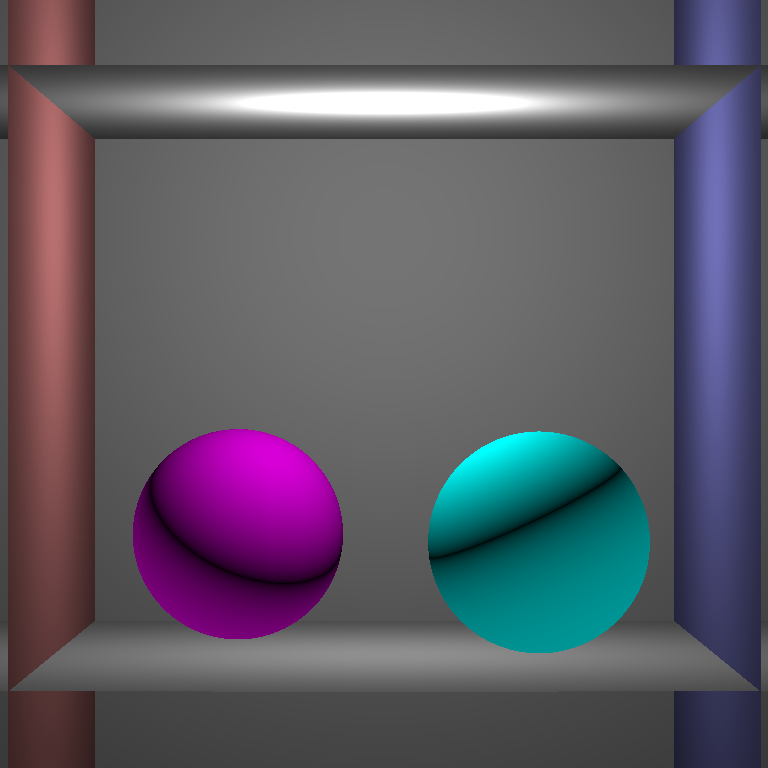
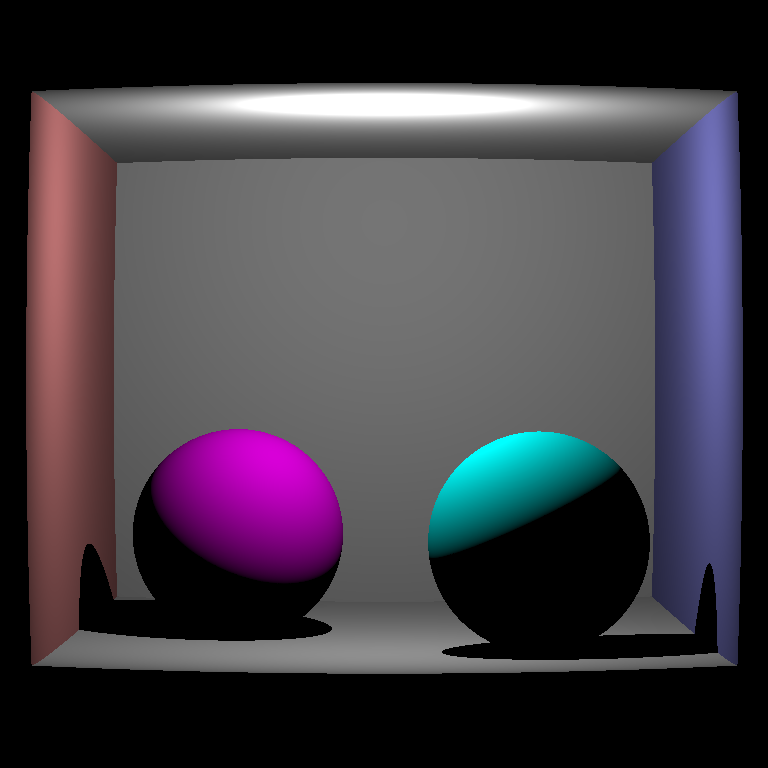
Add occlusion

diff --git a/src/main.rs b/src/main.rs
@@ -222,16 +222,31 @@ impl Scene {
 }
 
 
-pub fn computeDirectLighting(sphere : &Sphere, light: &Light, p:Vec3) -> Vec3
+pub fn computeDirectLighting(scene : &Scene, sphere : &Sphere, light: &Light, p:Vec3) -> Vec3
 {
     let lightP = light.position;
     let sphereToLight = lightP.sub(&p);
     let d2 = sphereToLight.length2();
-    let sphereToLightNorm = sphereToLight.mulf(1.0 / d2.sqrt());
+    let d = d2.sqrt();
+    let sphereToLightNorm = sphereToLight.mulf(1.0 / d);
     let normalSurfaceNorm = p.sub(&sphere.center).normalize();
     let absDot = normalSurfaceNorm.dot(&sphereToLightNorm).abs();
+    let r = Ray{origin:p.add(&sphereToLightNorm.mulf(0.01)), direction:sphereToLightNorm};
+    let it = intersect_scene(scene, &r);
 
-    sphere.color.mulf(absDot / (3.14159 * d2)).mul(&light.emission)
+    let occludded = match it {
+	None => false,
+	Some(Intersect{t, sphere}) => t < d
+    };
+
+    if occludded
+    {
+	Vec3::new(0.0, 0.0, 0.0)
+    }
+    else
+    {
+        sphere.color.mulf(absDot / (3.14159 * d2)).mul(&light.emission)
+    }
 }
 
 pub fn radiance(scene: &Scene, ray: &Ray) -> Vec3
@@ -244,7 +259,7 @@ pub fn radiance(scene: &Scene, ray: &Ray) -> Vec3
         Some(Intersect{t, sphere}) => {
 	    let p = ray.getP(t);
 	    // There is only one light, that's easier
-		computeDirectLighting(&sphere, &scene.lights[0], p)
+		computeDirectLighting(&scene, &sphere, &scene.lights[0], p)
 	}
     }
 }
@@ -310,17 +325,17 @@ pub fn main()
 {
     let scene = Scene::new(
 	(vec! [
-	    Sphere {radius: 1e5  ,center:(Vec3::new((1e5+1.0), 40.8, 81.6))  ,emission:Vec3::new(0.0, 0.0, 0.0),  color:(Vec3::new(0.75, 0.25, 0.25)), material: Material::Diffuse } // Left
-	    ,Sphere {radius: 1e5  ,center:(Vec3::new((-1e5+99.0), 40.8, 81.6)) ,emission:Vec3::new(0.0, 0.0, 0.0), color: (Vec3::new(0.25, 0.25, 0.75)),material:  Material::Diffuse } // Right
-	    ,Sphere {radius: 1e5  ,center:(Vec3::new(50.0, 40.8, 1e5))      ,emission:Vec3::new(0.0, 0.0, 0.0), color: (Vec3::new(0.75, 0.75, 0.75)),material:  Material::Diffuse } // Back
-	    ,Sphere {radius: 1e5  ,center:(Vec3::new(50.0, 40.8, (-1e5+170.0)))  ,emission:Vec3::new(0.0, 0.0, 0.0), color:Vec3::new(0.0, 0.0, 0.0),      material:        Material::Diffuse } // Front
-	    ,Sphere {radius: 1e5  ,center:(Vec3::new(50.0, 1e5, 81.6))     ,emission:Vec3::new(0.0, 0.0, 0.0), color: (Vec3::new(0.75, 0.75, 0.75)), material: Material::Diffuse } // Bottom
-	    ,Sphere {radius: 1e5  ,center:(Vec3::new(50.0, (-1e5+81.6), 81.6)) ,emission:Vec3::new(0.0, 0.0, 0.0), color: (Vec3::new(0.75, 0.75, 0.75)),material:  Material::Diffuse } // Top
+	    Sphere {radius: 1000.0  ,center:(Vec3::new((1000.0+1.0), 40.8, 81.6))  ,emission:Vec3::new(0.0, 0.0, 0.0),  color:(Vec3::new(0.75, 0.25, 0.25)), material: Material::Diffuse } // Left
+	    ,Sphere {radius: 1000.0  ,center:(Vec3::new((-1000.0+99.0), 40.8, 81.6)) ,emission:Vec3::new(0.0, 0.0, 0.0), color: (Vec3::new(0.25, 0.25, 0.75)),material:  Material::Diffuse } // Right
+	    ,Sphere {radius: 1000.0  ,center:(Vec3::new(50.0, 40.8, 1000.0))      ,emission:Vec3::new(0.0, 0.0, 0.0), color: (Vec3::new(0.75, 0.75, 0.75)),material:  Material::Diffuse } // Back
+	    ,Sphere {radius: 1000.0  ,center:(Vec3::new(50.0, 40.8, (-1000.0+170.0)))  ,emission:Vec3::new(0.0, 0.0, 0.0), color:Vec3::new(0.0, 0.0, 0.0),      material:        Material::Diffuse } // Front
+	    ,Sphere {radius: 1000.0  ,center:(Vec3::new(50.0, 1000.0, 81.6))     ,emission:Vec3::new(0.0, 0.0, 0.0), color: (Vec3::new(0.75, 0.75, 0.75)), material: Material::Diffuse } // Bottom
+	    ,Sphere {radius: 1000.0  ,center:(Vec3::new(50.0, (-1000.0+81.6), 81.6)) ,emission:Vec3::new(0.0, 0.0, 0.0), color: (Vec3::new(0.75, 0.75, 0.75)),material:  Material::Diffuse } // Top
 
 	    ,Sphere {radius: 16.5 ,center:(Vec3::new(27.0, 16.5, 47.0))        ,emission:Vec3::new(0.0, 0.0, 0.0), color: ((Vec3::new(0.99, 0.0, 0.99))), material:  Material::Mirror } // Mirror
 	    ,Sphere {radius: 16.5 ,center:(Vec3::new(73.0, 16.5, 78.0))        ,emission:Vec3::new(0.0, 0.0, 0.0), color: ((Vec3::new(0.0, 0.99, 0.99))), material:  Material::Glass } // Glass
 
-	    //,Sphere {radius: 1.5  ,center:(Vec3::new(50.0, (81.6-16.5), 81.6)),emission: ((Vec3::new(400.0, 400.0, 400.0)))   ,color:Vec3::new(0.0,0.0,0.0),material:  Material::Diffuse } // Light
+	    //,Sphere {radius: 1000.0  ,center:(Vec3::new(50.0, (81.6-16.5), 81.6)),emission: ((Vec3::new(400.0, 400.0, 400.0)))   ,color:Vec3::new(0.0,0.0,0.0),material:  Material::Diffuse } // Light
 	]).to_vec(),
 	(vec! [
 	    Light {emission: Vec3::new(5000.0, 5000.0, 5000.0), position: Vec3::new(50.0, 81.6-16.4, 81.6)}

diff --git a/README.md b/README.md
@@ -26,4 +26,4 @@ Should display something ugly such as:
 
 ![Ugly image](cornel.png)
 
-That's raytracing of sphere, with lighting, but no shadow, and everything is crappy.
+That's raytracing of sphere, with lighting, and everything is crappy.
